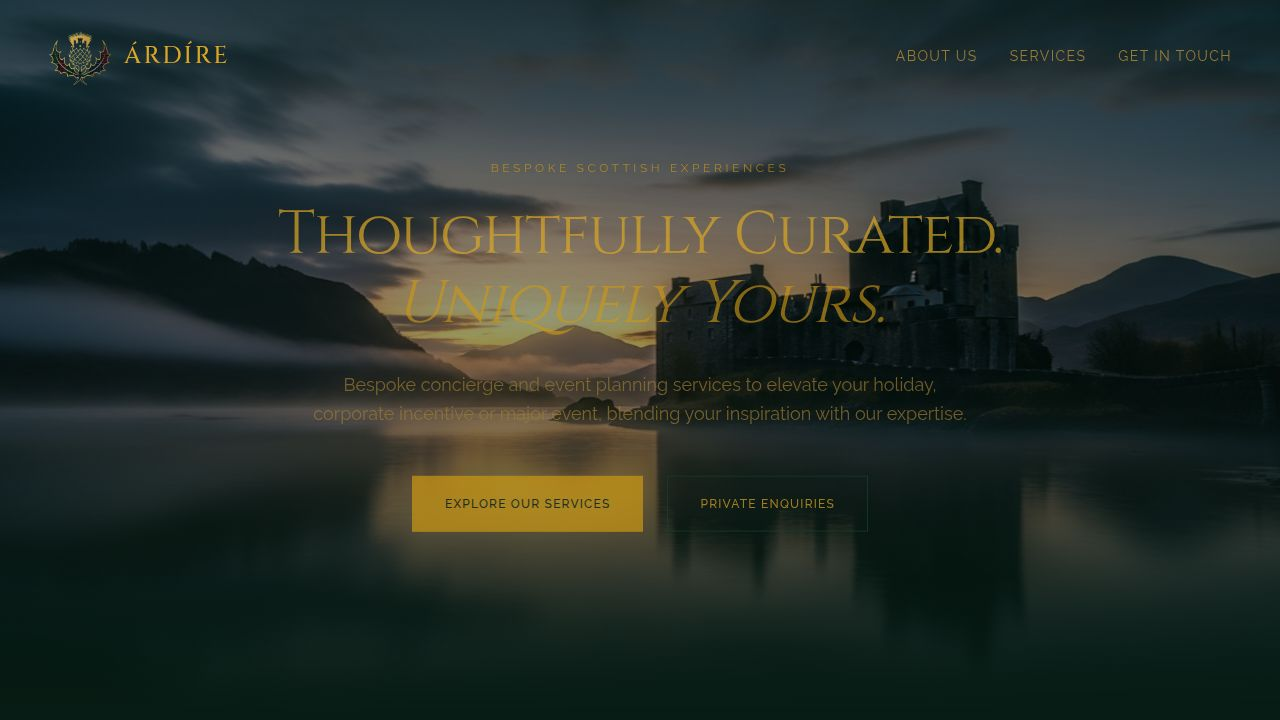
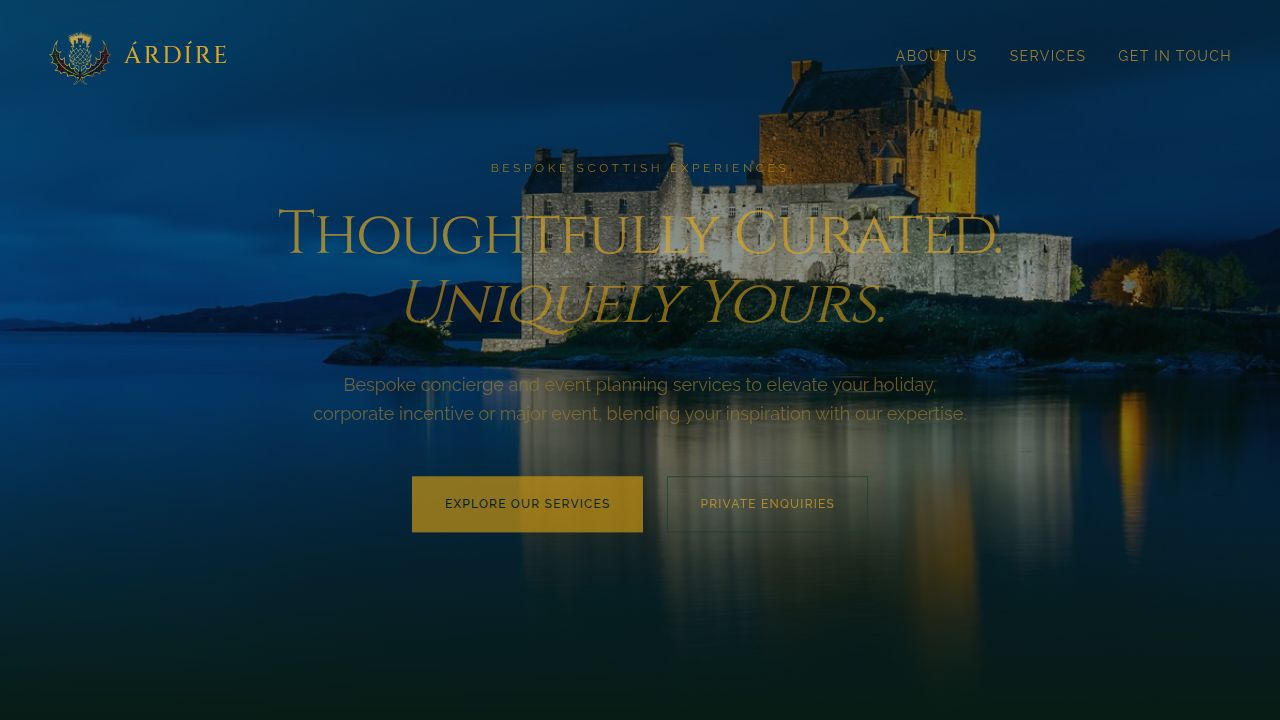
Add Private Chauffeur service page and update website sections
Add a new 'Private Chauffeur' service to the website, including a dedicated page, an entry in the services data, an icon in the Services component, and updates to the route generation and sitemap.

Replit-Commit-Author: Agent
Replit-Commit-Session-Id: 4be7c494-de01-4726-bd2d-796e126db087
Replit-Commit-Checkpoint-Type: full_checkpoint
Replit-Commit-Event-Id: 645f2c63-85e2-446f-a9b1-3df2e338a1d3
Replit-Commit-Screenshot-Url: https://storage.googleapis.com/screenshot-production-us-central1/8b41926d-4b68-4360-acb2-30f3e24624b1/4be7c494-de01-4726-bd2d-796e126db087/bASCSAT
Replit-Helium-Checkpoint-Created: true

diff --git a/artifacts/ardire/src/data/services.ts b/artifacts/ardire/src/data/services.ts
@@ -59,6 +59,29 @@ export const services: ServiceData[] = [
     cta: "Plan Your Golf Tour",
   },
   {
+    slug: "private-chauffeur",
+    title: "Private Chauffeur",
+    subtitle: "Driven to a Different Standard.",
+    intro:
+      "From airport arrivals to full-day touring, our private chauffeur service sets the benchmark for discreet, professional ground transportation across Scotland. Every journey is handled with precision, punctuality, and an unwavering attention to comfort.",
+    introRich: [
+      { type: "heading", text: "Private Chauffeur Services Across Scotland" },
+      { type: "paragraph", text: "Árdíre provides a premium chauffeur service for private individuals, corporate clients, and visiting guests throughout Scotland. Whether you require a seamless airport transfer, a chauffeured day of meetings across Glasgow and Edinburgh, or a multi-day touring driver for a leisurely exploration of the country, our experienced chauffeurs deliver an impeccable standard of service every time." },
+      { type: "heading", text: "Comfort, Discretion & Reliability" },
+      { type: "paragraph", text: "Our chauffeurs are carefully selected for their professionalism, local knowledge, and calm composure. They are immaculately presented, punctual to the minute, and trained to anticipate your needs without being intrusive. All journeys are conducted in premium vehicles, maintained to the highest standard and specified for comfort on Scotland's varied roads." },
+      { type: "heading", text: "Bespoke Ground Transportation" },
+      { type: "paragraph", text: "We cater for a wide range of requirements: private airport transfers from Glasgow, Edinburgh, and Inverness; executive transfers between meetings and business events; full-day and multi-day touring itineraries; wedding and special occasion transport; and event shuttle services for corporate and private functions. Whatever your itinerary, we build the transport around it." },
+    ],
+    highlights: [
+      "Premium executive and luxury vehicles, immaculately maintained",
+      "Airport transfers, corporate runs, and multi-day touring",
+      "Punctual, discreet, and professionally trained chauffeurs",
+      "Advance route planning with local knowledge built in",
+      "Available across Scotland including Glasgow, Edinburgh, and the Highlands",
+    ],
+    cta: "Arrange a Chauffeur",
+  },
+  {
     slug: "corporate-incentives",
     title: "Corporate Incentives",
     subtitle: "Performance. Rewarded. Unforgettably.",

diff --git a/artifacts/ardire/src/components/sections/Services.tsx b/artifacts/ardire/src/components/sections/Services.tsx
@@ -1,5 +1,5 @@
 import { motion } from "framer-motion";
-import { Key, Map, Users, Compass, Star, ArrowRight, Flag, CalendarCheck } from "lucide-react";
+import { Key, Map, Users, Compass, Star, ArrowRight, Flag, CalendarCheck, Car } from "lucide-react";
 import { Card, CardContent, CardHeader, CardTitle } from "@/components/ui/card";
 import { Link } from "wouter";
 import { services } from "@/data/services";
@@ -7,6 +7,7 @@ import { services } from "@/data/services";
 const icons: Record<string, React.ReactNode> = {
   "luxury-tours": <Map className="w-8 h-8 text-primary" strokeWidth={1} />,
   "golf-tours": <Flag className="w-8 h-8 text-primary" strokeWidth={1} />,
+  "private-chauffeur": <Car className="w-8 h-8 text-primary" strokeWidth={1} />,
   "corporate-incentives": <Star className="w-8 h-8 text-primary" strokeWidth={1} />,
   "self-guided-tours": <Compass className="w-8 h-8 text-primary" strokeWidth={1} />,
   "event-staffing": <Users className="w-8 h-8 text-primary" strokeWidth={1} />,
@@ -18,6 +19,7 @@ const icons: Record<string, React.ReactNode> = {
 const descriptions: Record<string, string> = {
   "luxury-tours": "Expertly guided journeys through Scotland's most dramatic landscapes, private estates, and hidden corners. Tailored entirely around your pace, interests, and appetite for adventure.",
   "golf-tours": "Play the courses that defined the game. We secure tee times at Scotland's most prestigious links — St Andrews, Turnberry, Carnoustie and beyond — and build a seamless luxury experience around every round.",
+  "private-chauffeur": "Discreet, professional chauffeured transport across Scotland. From airport transfers and executive runs to full-day touring, every journey delivered with precision and quiet luxury.",
   "corporate-incentives": "High-impact incentive programmes that reward, inspire, and motivate. From Highland challenges to exclusive gala dinners, we create experiences your team will never forget.",
   "self-guided-tours": "For those who seek freedom with a safety net of expertise. We curate the itinerary, pre-book the best stops, and provide round-the-clock support. You choose the pace.",
   "event-staffing": "Professional, discreet, and impeccably presented event staff for any occasion. Our team bring expertise, warmth, and composure to every event we support.",